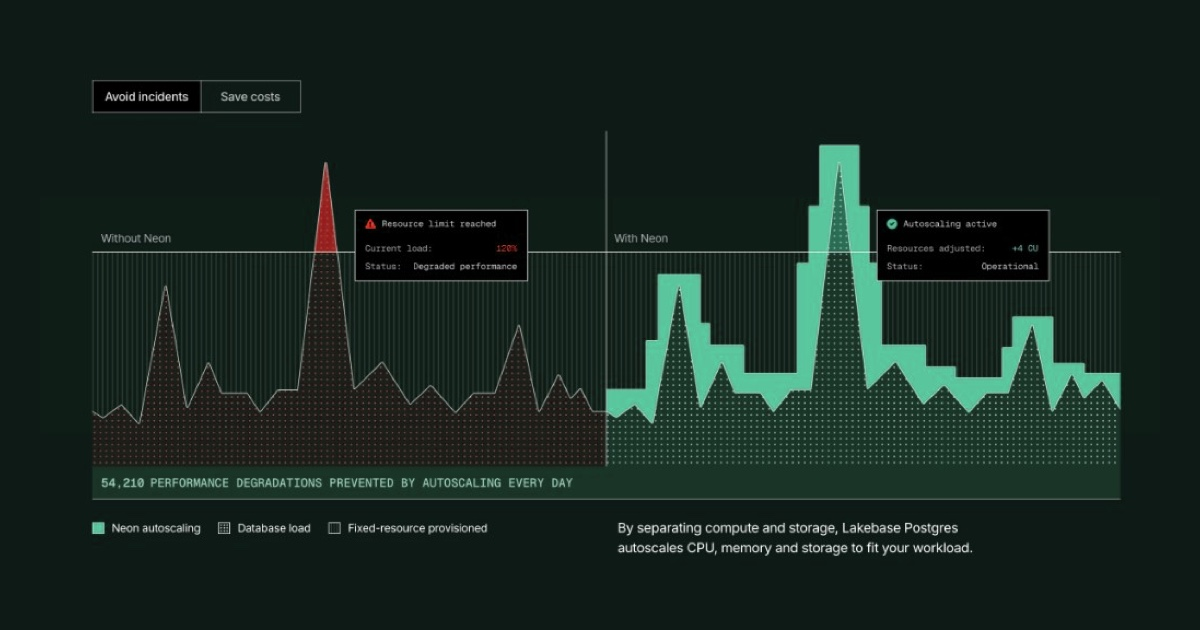
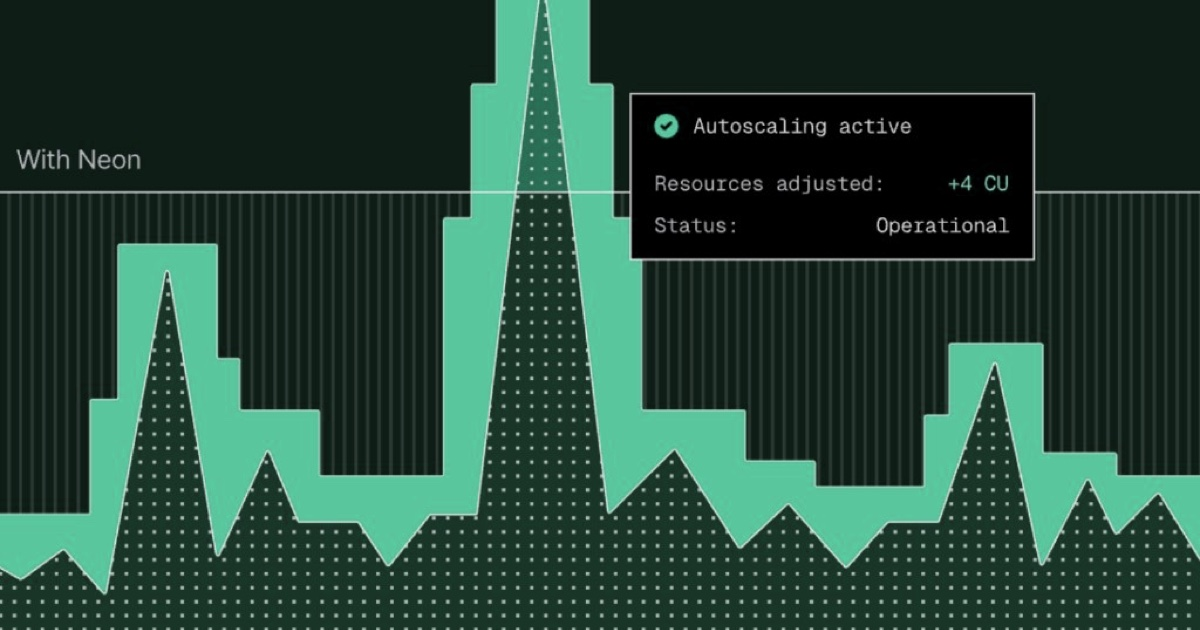
Swap hero, fix chart legend contrast, add highlight callout
Uses the zoomed autoscaling graphic as the hero and regenerates the social
preview from it. The chart legend was pale in the source and inverted to
near-black, so relight it to a readable gray. Simplifies two headings and
adds a highlight block making the 2026 argument against fixed compute.

diff --git a/content/pages/use-cases/bursty-workloads.md b/content/pages/use-cases/bursty-workloads.md
@@ -11,7 +11,7 @@ updatedOn: '2026-08-15T15:45:00.000Z'
 image: '/images/social-previews/use-cases/bursty-workloads.jpg'
 ---
 
-![Database load over time on a fixed-resource instance, where a spike exceeds the limit and degrades performance, next to the same load served by Neon autoscaling](/use-cases/bursty-workloads/autoscaling-hero.jpg)
+![Neon autoscaling allocating compute above a spiky database load curve, with a panel reporting that resources were adjusted by four compute units](/use-cases/bursty-workloads/autoscaling-hero.jpg)
 
 <Admonition type="note" title="Summary">
 Every database's demand for CPU and memory changes constantly. On a provisioned platform you buy one instance size and live with it, so you either pay for peak capacity around the clock or run out of headroom when traffic spikes. Lakebase Postgres (Neon's database) separates compute from storage, which lets it resize compute in seconds while queries keep running.
@@ -46,7 +46,12 @@ The provisioned model assumes someone is watching. Traffic grows, an alert fires
 
 That loop was always slow. It's harder to justify now that a single agent-driven feature can multiply query volume overnight, that a product can get posted somewhere and go from hundreds of requests to hundreds of thousands in an afternoon, and that most teams don't have anyone whose job is to watch database metrics.
 
-Capacity planning is a task the platform should own. What matters to you is that queries stay fast when load arrives and that you stop paying when it leaves.
+<div style={{ margin: '2.5rem 0', borderLeft: '3px solid #00E599', borderRadius: '0.25rem', background: 'rgba(0, 229, 153, 0.07)', padding: '1.75rem 2rem' }}>
+  <p style={{ margin: 0, fontFamily: 'ui-monospace, SFMono-Regular, Menlo, monospace', fontSize: '0.75rem', letterSpacing: '0.14em', textTransform: 'uppercase', opacity: 0.6 }}>The short version</p>
+  <p style={{ margin: '0.75rem 0 0', fontSize: '1.5rem', lineHeight: 1.35, fontWeight: 500 }}>Guessing your peak isn't a capacity plan, it's a standing bill. In 2026 the database should size itself, and charge you for what it used.</p>
+</div>
+
+What matters to you is narrower than a sizing strategy: queries stay fast when load arrives, and you stop paying when it leaves.
 
 <QuoteBlock quote="Our database traffic peaks at nights and on weekends when thousands of our members are attending experiences. Building on a database that preemptively autoscales allows us to regularly handle these traffic spikes." author={{ name: 'Lex Nasser', company: 'Founding Engineer at 222' }} link="/blog/how-222-uses-neon-to-handle-their-frequent-spikes-in-demand" />
 
@@ -92,7 +97,7 @@ The [compute autoscaling report](/autoscaling-report) covers the methodology beh
 
 <QuoteBlock quote="Our workload ingests hundreds of data points per second and our RDS costs were increasing. With Neon, we found a way to scale our setup more efficiently" author="thorsten-riess" role="Software Architect at traconiq" link="/blog/why-traconiq-migrated-from-aws-rds-to-neon" />
 
-## Workloads where the difference is largest
+## Where autoscaling helps most
 
 Autoscaling helps every workload, but the savings scale with how uneven the load is. The teams that see the biggest difference tend to have one of these patterns:
 
@@ -106,11 +111,11 @@ Autoscaling helps every workload, but the savings scale with how uneven the load
 
 <QuoteBlock quote="Neon worked out of the box, handling hundreds of Lambdas without any of the connection issues we saw in Aurora Serverless v2. On top of that, Neon costs us 1/6 of what we were paying with AWS" author="cody-jenkins" role="Head of Engineering at Invenco" link="/blog/why-invenco-migrated-from-aurora-serverless-v2-to-neon" />
 
-## The rest of the backend works the same way
+## Deploy serverless backends
 
-Compute is where the waste is most visible, but it isn't the only place a fixed allocation shows up. Storage on Neon grows and shrinks with your data and bills for what you're actually storing, with no volume to size in advance.
+Database compute is where the waste is most visible, but it isn't the only place a fixed allocation shows up. The rest of the Neon backend is built on the same model, so the parts of your application around the database don't reintroduce the problem.
 
-The newer primitives follow the same rule. [Neon Functions](/docs/compute/functions/overview) run your handlers on demand next to the database. [Neon Object Storage](/docs/storage/overview) charges for the objects you keep. [Managed Better Auth](/docs/auth/overview) and the [Neon AI Gateway](/docs/ai-gateway/overview) come with the same consumption model.
+Storage grows and shrinks with your data and bills for what you're actually storing, with no volume to size in advance. [Neon Functions](/docs/compute/functions/overview) run your handlers on demand next to the database. [Neon Object Storage](/docs/storage/overview) charges for the objects you keep. [Managed Better Auth](/docs/auth/overview) and the [Neon AI Gateway](/docs/ai-gateway/overview) come with the same consumption model.
 
 The point is the same one autoscaling makes about compute. You describe what your application needs, and the platform decides how much of it to run at any given moment.
 
